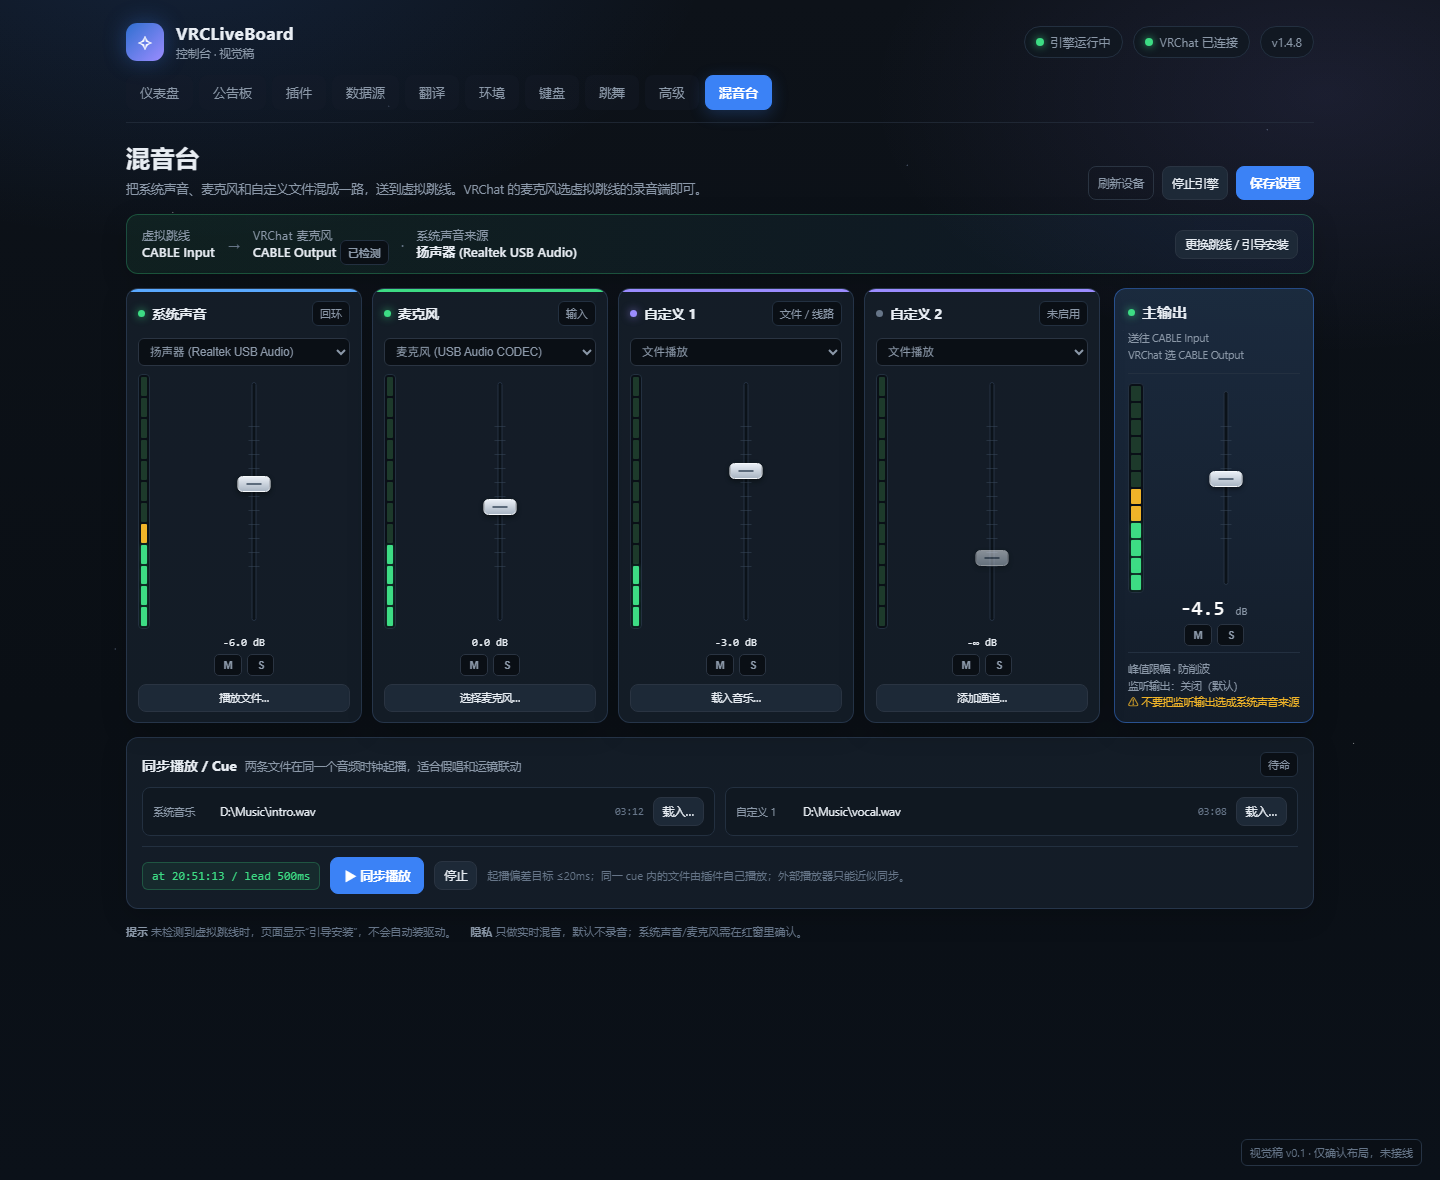
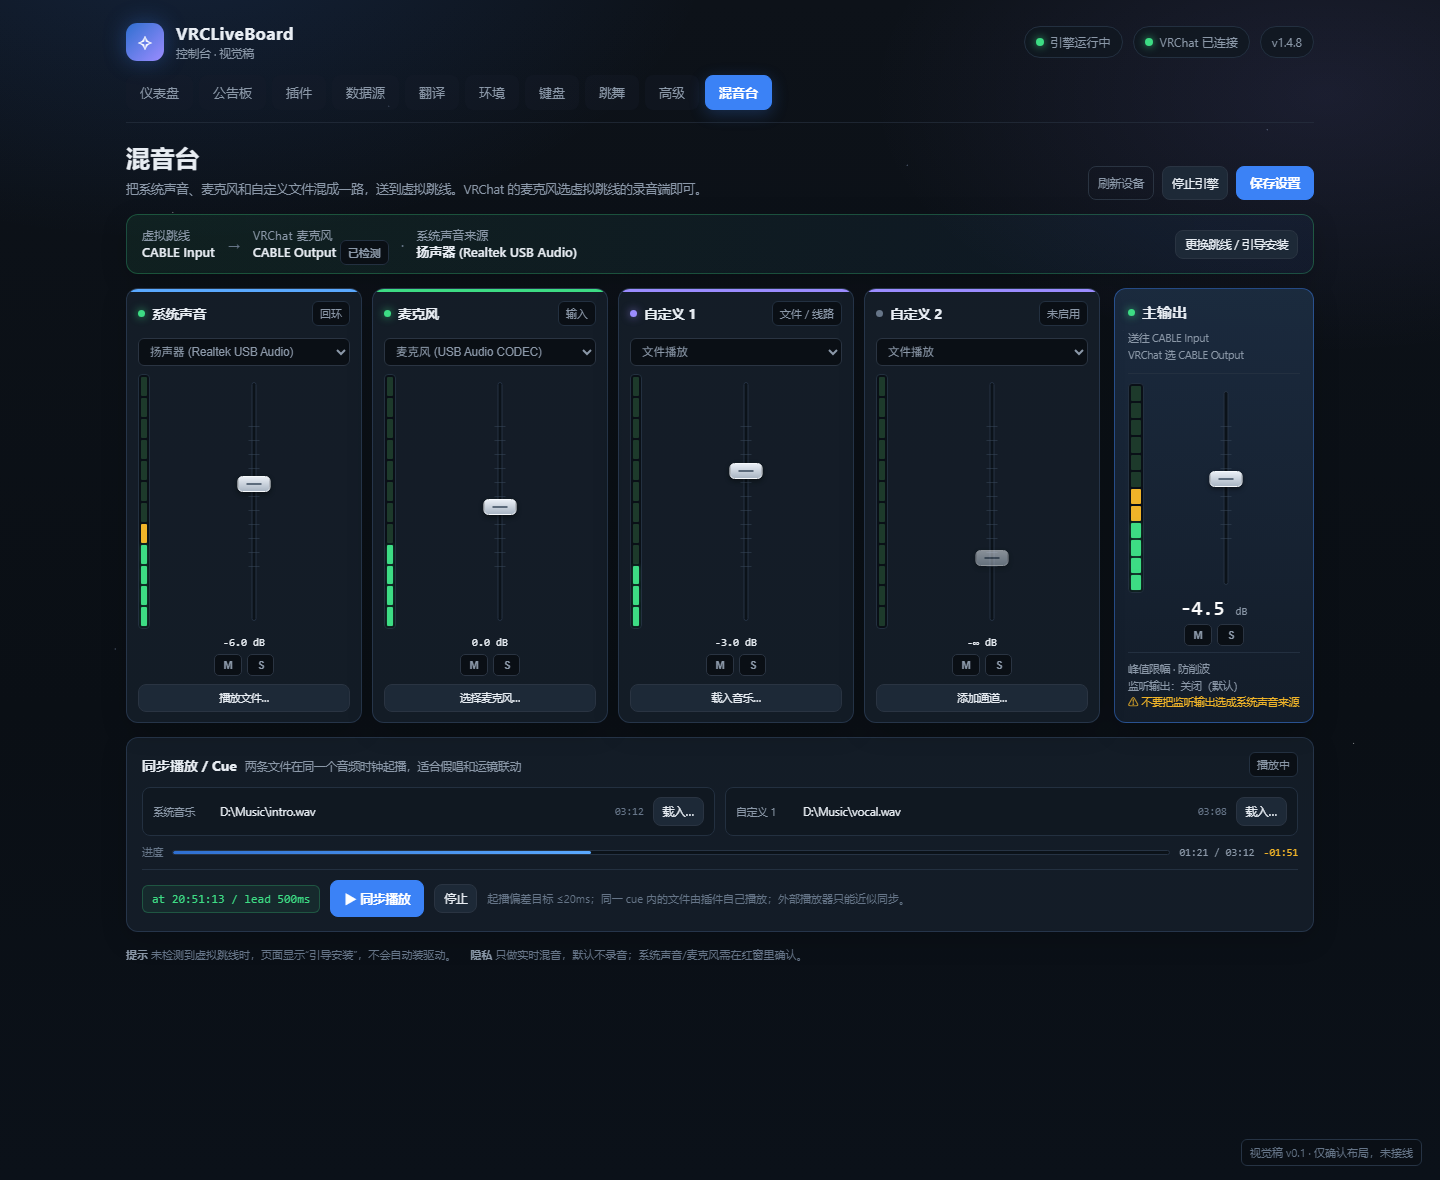
docs(feature): VU 刻度铺满/旋转中心移到表盘外, 主输出单表, Cue 加进度与倒计时
B-VU 表盘按近景参考重画: 指针支点在可见区域下方并被边框遮住; 主输出只保留一只 VU; A/B 两套均补 Cue 进度条、当前/总时长、倒计时; 数字 dB/峰值保留.

Changed region(s): [[0.0938, 0.7017, 0.625, 0.8237], [0.875, 0.6407, 0.9062, 0.6712]]

diff --git a/docs/FEATURES/assets/virtual-mixer-mockup-b-vu.html b/docs/FEATURES/assets/virtual-mixer-mockup-b-vu.html
@@ -45,11 +45,12 @@ body:before{content:'';position:fixed;inset:0;pointer-events:none;opacity:.5;bac
 .filebtn{border:1px solid var(--border2);background:var(--inset);color:var(--muted);border-radius:6px;padding:6px 8px;font-size:10.5px;text-align:left;white-space:nowrap;overflow:hidden;text-overflow:ellipsis}
 .master{padding:14px 14px 12px;border-color:rgba(240,180,41,.34);background:linear-gradient(180deg,rgba(35,40,48,.95),rgba(20,28,38,.95))}
 .master .strip-head b{font-size:15px}.master .out{font-size:10.5px;color:var(--muted);line-height:1.6;margin:3px 0 10px;border-bottom:1px solid var(--border2);padding-bottom:9px}
-.dualmeter{display:flex;gap:8px;justify-content:center;margin:6px 0 10px}.dualmeter .analog{width:126px}.dualmeter .vu{width:126px;height:92px}
+.masteranalog{width:190px;margin:8px auto 0}.masteranalog .vu{width:190px;height:112px}.masterlabel{text-align:center;font-size:9.5px;letter-spacing:2px;color:var(--faint);margin:5px 0 7px}
 .master .bigdb{font-family:Consolas,monospace;font-size:22px;color:#fff;text-align:center;margin:7px 0 5px}.master .bigdb span{font-size:11px;color:var(--muted)}
 .master .faderline{margin:0 2px 7px}.master .safe{margin-top:auto;font-size:10.5px;color:var(--muted);border-top:1px solid var(--border2);padding-top:9px;line-height:1.6;margin-top:12px}
 .cue{margin-top:14px;padding:14px 15px}.cue-head{display:flex;align-items:center;justify-content:space-between;gap:12px;margin-bottom:10px}.cue-head b{font-size:14px}.cue-head .sub{font-size:11.5px;color:var(--muted);margin-left:8px}
 .cuerows{display:grid;grid-template-columns:1fr 1fr;gap:10px}.cuerow{display:flex;align-items:center;gap:9px;background:var(--inset);border:1px solid var(--border2);border-radius:8px;padding:9px 10px}.cuerow .tag{font-size:10.5px;color:var(--muted);min-width:58px}.cuerow .fname{flex:1;min-width:0;font-size:11.5px;white-space:nowrap;overflow:hidden;text-overflow:ellipsis}.cuerow .dur{font-family:Consolas,monospace;font-size:10.5px;color:var(--faint)}
+.cueprogress{display:flex;align-items:center;gap:9px;margin-top:9px;font-size:10.5px;color:var(--faint)}.cueprogress .pbar{flex:1;height:5px;border-radius:3px;background:#0b1219;border:1px solid #263344;overflow:hidden}.cueprogress .pfill{display:block;height:100%;width:42%;background:linear-gradient(90deg,#2f6fd0,#5aa9ff);border-radius:3px}.cueprogress .pnum{font-family:Consolas,monospace;color:var(--muted)}.cueprogress .cd{font-family:Consolas,monospace;color:var(--warn)}
 .cuefoot{display:flex;align-items:center;gap:10px;flex-wrap:wrap;margin-top:10px;padding-top:10px;border-top:1px solid var(--border2)}.cuefoot .time{font-family:Consolas,monospace;font-size:12px;color:var(--ok);background:rgba(61,220,132,.08);border:1px solid rgba(61,220,132,.25);border-radius:6px;padding:6px 9px}.cuefoot .hint{font-size:11px;color:var(--faint)}
 .foot{display:flex;gap:14px;flex-wrap:wrap;margin-top:14px;color:var(--faint);font-size:11px;line-height:1.6}.foot b{color:var(--muted);font-weight:600}
 .watermark{position:fixed;right:18px;bottom:14px;color:#657487;font-size:11px;border:1px solid #263344;background:rgba(10,15,21,.8);padding:5px 8px;border-radius:6px}
@@ -80,9 +81,9 @@ body:before{content:'';position:fixed;inset:0;pointer-events:none;opacity:.5;bac
     <div class="stripbody"><div class="analog"><div class="vu" data-vu="custom2" data-level="-30"></div><div class="vu-foot"><b>VU</b><span class="peak" style="opacity:.45">PEAK</span></div></div><div class="controls"><select><option>文件播放</option><option>线路输入</option></select><div class="faderline"><span class="trackline"><i class="fill" style="width:12%"></i><i class="knob" style="left:12%"></i></span><span class="db">-∞ dB</span></div><div class="msrow"><button>M</button><button>S</button><span class="db2">L / R</span></div><div class="filebtn">添加通道…</div></div></div>
   </div>
 </div>
-<aside class="card master"><div class="strip-head"><i class="dot"></i><b>主输出</b></div><div class="out">送往 CABLE Input<br>VRChat 选 CABLE Output</div><div class="dualmeter"><div class="analog"><div class="vu" data-vu="masterL" data-level="-6"></div></div><div class="analog"><div class="vu" data-vu="masterR" data-level="-8"></div></div></div><div style="display:flex;justify-content:center;gap:42px;font-size:10px;color:var(--faint);margin-top:-8px;margin-bottom:4px"><span>L</span><span>R</span></div><div class="bigdb">-4.5 <span>dB</span></div><div class="faderline"><span class="trackline"><i class="fill" style="width:70%"></i><i class="knob" style="left:70%"></i></span></div><div class="msrow" style="justify-content:center"><button>M</button><span style="font-size:10px;color:var(--faint)">主输出静音</span></div><div class="safe">峰值限幅 · 防削波<br>监听输出：关闭（默认）<br><span style="color:var(--warn)">⚠ 不要把监听输出选成系统声音来源</span></div></aside>
+<aside class="card master"><div class="strip-head"><i class="dot"></i><b>主输出</b></div><div class="out">送往 CABLE Input<br>VRChat 选 CABLE Output</div><div class="masteranalog"><div class="vu" data-vu="master" data-level="-6"></div><div class="masterlabel">MASTER</div></div><div class="bigdb">-4.5 <span>dB</span></div><div class="faderline"><span class="trackline"><i class="fill" style="width:70%"></i><i class="knob" style="left:70%"></i></span></div><div class="msrow" style="justify-content:center"><button>M</button><span style="font-size:10px;color:var(--faint)">主输出静音</span></div><div class="safe">峰值限幅 · 防削波<br>监听输出：关闭（默认）<br><span style="color:var(--warn)">⚠ 不要把监听输出选成系统声音来源</span></div></aside>
 </div>
-<div class="card cue"><div class="cue-head"><div><b>同步播放 / Cue</b><span class="sub">两条文件在同一个音频时钟起播，适合假唱和运镜联动</span></div><span class="badge">待命</span></div><div class="cuerows"><div class="cuerow"><span class="tag">系统音乐</span><span class="fname">D:\Music\intro.wav</span><span class="dur">03:12</span><button class="btn small">载入…</button></div><div class="cuerow"><span class="tag">自定义 1</span><span class="fname">D:\Music\vocal.wav</span><span class="dur">03:08</span><button class="btn small">载入…</button></div></div><div class="cuefoot"><span class="time">at 21:03:00 / lead 500ms</span><button class="btn pri">▶ 同步播放</button><button class="btn small">停止</button><span class="hint">起播偏差目标 ≤20ms；同一 cue 内的文件由插件自己播放；外部播放器只能近似同步。</span></div></div>
+<div class="card cue"><div class="cue-head"><div><b>同步播放 / Cue</b><span class="sub">两条文件在同一个音频时钟起播，适合假唱和运镜联动</span></div><span class="badge">播放中</span></div><div class="cuerows"><div class="cuerow"><span class="tag">系统音乐</span><span class="fname">D:\Music\intro.wav</span><span class="dur">03:12</span><button class="btn small">载入…</button></div><div class="cuerow"><span class="tag">自定义 1</span><span class="fname">D:\Music\vocal.wav</span><span class="dur">03:08</span><button class="btn small">载入…</button></div></div><div class="cueprogress"><span>进度</span><div class="pbar"><i class="pfill"></i></div><span class="pnum">01:21 / 03:12</span><span class="cd">-01:51</span></div><div class="cuefoot"><span class="time">at 21:03:00 / lead 500ms</span><button class="btn pri">▶ 同步播放</button><button class="btn small">停止</button><span class="hint">起播偏差目标 ≤20ms；同一 cue 内的文件由插件自己播放；外部播放器只能近似同步。</span></div></div>
 <div class="foot"><span><b>提示</b> 机械 VU 是风格化反馈，数字 dB 仍保留；未检测到虚拟跳线时显示“引导安装”。</span><span><b>隐私</b> 只做实时混音，默认不录音；系统声音/麦克风需在红窗里确认。</span></div>
 </div>
 <div class="watermark">视觉稿 B-VU · 仅确认布局，未接线</div>
@@ -100,49 +101,50 @@ body:before{content:'';position:fixed;inset:0;pointer-events:none;opacity:.5;bac
   function ticks(){
     var out='';
     var major=[-20,-10,-7,-5,-3,-1,0,3];
-    var majorAng=[-52,-36,-25,-17,-9,-2,4,16];
-    for(var i=0;i<=34;i++){
-      var a=-52+i*(68/34);
-      var r1=58, r2=(i%2===0?67:63);
-      var p1=polar(92,88,r1,a), p2=polar(92,88,r2,a);
-      out+='<line x1="'+p1[0].toFixed(1)+'" y1="'+p1[1].toFixed(1)+'" x2="'+p2[0].toFixed(1)+'" y2="'+p2[1].toFixed(1)+'" stroke="#3d2b1c" stroke-width="'+(i%2===0?1.3:0.8)+'" opacity="'+(i%2===0?'.9':'.55')+'"/>';
+    var majorAng=[-58,-40,-30,-22,-14,-6,2,22];
+    for(var i=0;i<=31;i++){
+      var a=-58+i*(80/31);
+      var isMajor=false;
+      for(var m=0;m<majorAng.length;m++){ if(Math.abs(a-majorAng[m])<1.3) isMajor=true; }
+      var r1=76, r2=(isMajor?91:83);
+      var p1=polar(92,120,r1,a), p2=polar(92,120,r2,a);
+      out+='<line x1="'+p1[0].toFixed(1)+'" y1="'+p1[1].toFixed(1)+'" x2="'+p2[0].toFixed(1)+'" y2="'+p2[1].toFixed(1)+'" stroke="#3a2718" stroke-width="'+(isMajor?1.45:0.8)+'" opacity="'+(isMajor?'.9':'.45')+'"/>';
     }
     for(var j=0;j<major.length;j++){
-      var a2=majorAng[j];
-      var p=polar(92,88,75,a2);
-      out+='<text x="'+p[0].toFixed(1)+'" y="'+(p[1]+2.5).toFixed(1)+'" text-anchor="middle" font-size="8" fill="#3a2718" font-family="Consolas,monospace">'+(major[j]>0?'+':'')+major[j]+'</text>';
+      var p=polar(92,120,101,majorAng[j]);
+      var label=(major[j]>0?'+':'')+major[j];
+      out+='<text x="'+p[0].toFixed(1)+'" y="'+(p[1]+2.5).toFixed(1)+'" text-anchor="middle" font-size="8" fill="#3a2718" font-family="Consolas,monospace">'+label+'</text>';
     }
     return out;
   }
   function svgMeter(level){
     var v=Math.max(-20,Math.min(3,Number(level)||0));
-    var t=(v+20)/23; var ang=-52+t*68;
+    var t=(v+20)/23; var ang=-58+t*80;
     var tickHtml=ticks();
-    var red=arcPath(92,88,64,4,16);
+    var red=arcPath(92,120,84,2,22);
     return '<svg viewBox="0 0 184 108" preserveAspectRatio="xMidYMid meet">'+
       '<defs>'+
-      '<linearGradient id="paper" x1="0" y1="0" x2="0" y2="1"><stop offset="0" stop-color="#f7e8c8"/><stop offset=".62" stop-color="#efd8ad"/><stop offset="1" stop-color="#d8b57d"/></linearGradient>'+
-      '<radialGradient id="bulb" cx="50%" cy="100%" r="70%"><stop offset="0" stop-color="#ffd38c" stop-opacity=".85"/><stop offset=".45" stop-color="#ffae52" stop-opacity=".25"/><stop offset="1" stop-color="#000" stop-opacity="0"/></radialGradient>'+
-      '<linearGradient id="bezel" x1="0" y1="0" x2="0" y2="1"><stop offset="0" stop-color="#30261c"/><stop offset=".5" stop-color="#17120e"/><stop offset="1" stop-color="#0b0907"/></linearGradient>'+
+      '<linearGradient id="paper" x1="0" y1="0" x2="0" y2="1"><stop offset="0" stop-color="#f8e9ca"/><stop offset=".62" stop-color="#efd7aa"/><stop offset="1" stop-color="#d5b076"/></linearGradient>'+
+      '<radialGradient id="bulb" cx="50%" cy="102%" r="70%"><stop offset="0" stop-color="#ffd38c" stop-opacity=".9"/><stop offset=".5" stop-color="#ffae52" stop-opacity=".25"/><stop offset="1" stop-color="#000" stop-opacity="0"/></radialGradient>'+
+      '<linearGradient id="bezel" x1="0" y1="0" x2="0" y2="1"><stop offset="0" stop-color="#33281c"/><stop offset=".5" stop-color="#16110c"/><stop offset="1" stop-color="#090705"/></linearGradient>'+
       '<clipPath id="faceclip"><rect x="10" y="8" width="164" height="92" rx="2"/></clipPath>'+
       '</defs>'+
-      '<rect x="1" y="1" width="182" height="106" rx="7" fill="url(#bezel)" stroke="#4f3e2d" stroke-opacity=".55"/>'+
+      '<rect x="1" y="1" width="182" height="106" rx="7" fill="url(#bezel)" stroke="#4f3e2d" stroke-opacity=".6"/>'+
       '<rect x="8" y="6" width="168" height="96" rx="3" fill="#0c0907" opacity=".55"/>'+
       '<g clip-path="url(#faceclip)">'+
       '<rect x="10" y="8" width="164" height="92" fill="url(#paper)"/>'+
       '<rect x="10" y="8" width="164" height="92" fill="url(#bulb)"/>'+
-      '<path d="'+arcPath(92,88,64,-52,16)+'" fill="none" stroke="#3e2a1a" stroke-width="1.2" opacity=".9"/>'+
-      '<path d="'+red+'" fill="none" stroke="#b03a2a" stroke-width="4" opacity=".85"/>'+
+      '<path d="'+arcPath(92,120,84,-58,22)+'" fill="none" stroke="#3e2a1a" stroke-width="1.2" opacity=".9"/>'+
+      '<path d="'+red+'" fill="none" stroke="#b03a2a" stroke-width="4.6" opacity=".9"/>'+
       tickHtml+
-      '<text x="92" y="66" text-anchor="middle" font-size="17" font-weight="600" fill="#2f2115" font-family="Segoe UI">VU</text>'+
+      '<text x="92" y="78" text-anchor="middle" font-size="17" font-weight="600" fill="#2f2115" font-family="Segoe UI">VU</text>'+
       '<text x="16" y="98" font-size="6.5" fill="#6b4c30" font-family="Consolas,monospace">ANALOG</text>'+
-      '<circle cx="157" cy="20" r="3.2" fill="#c23b2c"/><circle cx="157" cy="20" r="1.2" fill="#ffb4a8"/>'+
-      '<text x="157" y="32" text-anchor="middle" font-size="6.5" fill="#5b3c27" font-family="Segoe UI">PEAK</text>'+
+      '<circle cx="158" cy="19" r="3.2" fill="#c23b2c"/><circle cx="158" cy="19" r="1.2" fill="#ffb4a8"/>'+
+      '<text x="158" y="31" text-anchor="middle" font-size="6.5" fill="#5b3c27" font-family="Segoe UI">PEAK</text>'+
       '<polygon points="12,9 58,9 46,20 12,20" fill="#fff" opacity=".10"/>'+
+      '<line x1="92" y1="120" x2="92" y2="20" stroke="#24170f" stroke-width="2.4" stroke-linecap="round" transform="rotate('+ang.toFixed(1)+' 92 120)"/>'+
+      '<line x1="92" y1="120" x2="92" y2="25" stroke="#f6e6c8" stroke-width=".6" opacity=".32" transform="rotate('+ang.toFixed(1)+' 92 120)"/>'+
       '</g>'+
-      '<line x1="92" y1="88" x2="92" y2="26" stroke="#24170f" stroke-width="2.2" stroke-linecap="round" transform="rotate('+ang.toFixed(1)+' 92 88)"/>'+
-      '<line x1="92" y1="88" x2="92" y2="32" stroke="#f6e6c8" stroke-width=".7" opacity=".35" transform="rotate('+ang.toFixed(1)+' 92 88)"/>'+
-      '<circle cx="92" cy="88" r="4.6" fill="#1d130d"/><circle cx="92" cy="88" r="1.8" fill="#c8a36b"/>'+
       '</svg>';
   }
   var nodes = document.querySelectorAll('.vu');

diff --git a/docs/FEATURES/assets/virtual-mixer-mockup.html b/docs/FEATURES/assets/virtual-mixer-mockup.html
@@ -80,6 +80,7 @@ body:before{content:'';position:fixed;inset:0;pointer-events:none;opacity:.5;bac
 .cuerow .tag{font-size:10.5px;color:var(--muted);min-width:58px}
 .cuerow .fname{flex:1;min-width:0;font-size:11.5px;color:var(--text);white-space:nowrap;overflow:hidden;text-overflow:ellipsis}
 .cuerow .dur{font-family:var(--mono);font-size:10.5px;color:var(--faint)}
+.cueprogress{display:flex;align-items:center;gap:9px;margin-top:9px;font-size:10.5px;color:var(--faint)}.cueprogress .pbar{flex:1;height:5px;border-radius:3px;background:#0b1219;border:1px solid #263344;overflow:hidden}.cueprogress .pfill{display:block;height:100%;width:42%;background:linear-gradient(90deg,#2f6fd0,#5aa9ff);border-radius:3px}.cueprogress .pnum{font-family:Consolas,monospace;color:var(--muted)}.cueprogress .cd{font-family:Consolas,monospace;color:var(--warn)}
 .cuefoot{display:flex;align-items:center;gap:10px;flex-wrap:wrap;margin-top:10px;padding-top:10px;border-top:1px solid var(--border2)}
 .cuefoot .time{font-family:var(--mono);font-size:12px;color:var(--ok);background:rgba(61,220,132,.08);border:1px solid rgba(61,220,132,.25);border-radius:6px;padding:6px 9px}
 .cuefoot .hint{font-size:11px;color:var(--faint)}
@@ -176,11 +177,12 @@ body:before{content:'';position:fixed;inset:0;pointer-events:none;opacity:.5;bac
   </div>
 
   <div class="card cue">
-    <div class="cue-head"><div><b>同步播放 / Cue</b><span class="sub">两条文件在同一个音频时钟起播，适合假唱和运镜联动</span></div><span class="badge">待命</span></div>
+    <div class="cue-head"><div><b>同步播放 / Cue</b><span class="sub">两条文件在同一个音频时钟起播，适合假唱和运镜联动</span></div><span class="badge">播放中</span></div>
     <div class="cuerows">
       <div class="cuerow"><span class="tag">系统音乐</span><span class="fname">D:\Music\intro.wav</span><span class="dur">03:12</span><button class="btn small">载入…</button></div>
       <div class="cuerow"><span class="tag">自定义 1</span><span class="fname">D:\Music\vocal.wav</span><span class="dur">03:08</span><button class="btn small">载入…</button></div>
     </div>
+    <div class="cueprogress"><span>进度</span><div class="pbar"><i class="pfill"></i></div><span class="pnum">01:21 / 03:12</span><span class="cd">-01:51</span></div>
     <div class="cuefoot"><span class="time">at 20:51:13 / lead 500ms</span><button class="btn pri">▶ 同步播放</button><button class="btn small">停止</button><span class="hint">起播偏差目标 ≤20ms；同一 cue 内的文件由插件自己播放；外部播放器只能近似同步。</span></div>
   </div>
   <div class="foot"><span><b>提示</b> 未检测到虚拟跳线时，页面显示“引导安装”，不会自动装驱动。</span><span><b>隐私</b> 只做实时混音，默认不录音；系统声音/麦克风需在红窗里确认。</span></div>

diff --git a/docs/FEATURES/F-20261123-01-虚拟混音台.md b/docs/FEATURES/F-20261123-01-虚拟混音台.md
@@ -1,11 +1,11 @@
 # F-20261123-01 简易虚拟混音台总线
 
-> 状态: **方案已确认（D1 引导安装 / 单跳线 / B1 通道 / C1 同步 / E1 引擎 / F1 自动化；D4 双布局 A+B-VU 都做）**。视觉精修中，未开发。
+> 状态: **方案与视觉细节已确认（D1 引导安装 / 单跳线 / B1 通道 / C1 同步 / D4 双布局 A+B-VU / E1 引擎 / F1 自动化；B-VU 默认）**。未开发。
 > 流程: `docs/PROCESS-02-开发更新.md` D0/D1；本卡先回答七问和四张契约，确认后再进 D2。
 
 ## 0. 状态与归属
 
-- 状态: DRAFT（方案已确认，视觉精修/实现准备）
+- 状态: DRAFT（方案与视觉已确认，待进入实现）
 - 归属: **插件**（`plugins/virtual-mixer`）+ **主程序控制台新增混音台页面**（仅 UI/接口桥，不放核心音频算法）
 - 目标版本: 插件 `0.1.0`；主程序 UI 改动按 PROCESS-02 走 milestone（不混进补丁位）
 - 关联: 待实现后写 DEV-NOTES 条目。
@@ -256,9 +256,10 @@ VRChat 主播/整活用户：希望把「系统正在播放的声音」「自己
 
 ![混音台视觉稿 B-VU](assets/virtual-mixer-mockup-b-vu.png)
 
-- 四条通道卡片各放一只**模拟 VU 表**，主输出放 **L/R 双 VU**；保留数字 dB 读数、峰值 LED 和横向推子。
-- **精修方向（按你给的近景参考）**：奶油色表纸、黑色刻度/数字、`+` 区红色刻度、红色 PEAK 灯、底部灯泡暖光、深色金属边框、细黑指针；只借风格，不使用 TASCAM/TEAC 商标或型号字样。
+- 四条通道卡片各放一只**模拟 VU 表**，主输出只放 **一只 VU**（用户确认不需要 L/R 双表）；保留数字 dB 读数、峰值 LED 和横向推子。
+- **精修方向（按你给的近景参考）**：奶油色表纸、黑色刻度/数字、`+` 区红色刻度、红色 PEAK 灯、底部灯泡暖光、深色金属边框、细黑指针；刻度铺满表盘，**指针旋转中心位于可见表盘下方（被下边框遮住）**，指针从下边缘穿入表盘；只借风格，不使用 TASCAM/TEAC 商标或型号字样。
 - 指针长度、支点、刻度密度、PEAK 灯位置按近景图重画；近看像机械表，缩到卡片尺寸仍能读。
+- Cue 区已加 **进度条、当前/总时长、倒计时**；数字 dB/峰值 LED 保留作精确读数。
 - 机械表只做**风格化平均值**反馈；精确音量仍看数字 dB，表针不承担精确计量。
 - 实现方式：SVG/CSS 指针 + 30fps 动画；VU 弹道采用约 300ms 积分/回落，指针不抖动；4–8 只表的 CPU 开销可忽略，不需要改音频引擎。
 - 可选：右下角“机械表 / 数字表”切换，或只把 VU 作为主题皮肤；避免小屏看不清时无法读数。
@@ -284,14 +285,15 @@ VRChat 主播/整活用户：希望把「系统正在播放的声音」「自己
 - 明确显示虚拟跳线两端，缺失时显示“更换跳线 / 引导安装”。
 - 每个通道有 M/S；主输出有峰值限幅提示；监听默认关闭并提示防回授。
 
-### 仍需确认的视觉细节
+### 视觉细节确认结果
 
-1. **默认布局**：B-VU 机械表（推荐，符合你的桌面）还是 A 通道条？两者都会做，切换按钮在页面右上角。
-2. 默认显示 3 条（系统 / 麦克风 / 自定义 1）还是 4 条（含一条未启用占位）？
-3. 主输出的 L/R 双 VU 是否要更大（当前卡片里较小）？
-4. 是否保留数字 dB/峰值 LED 作为精确读数（推荐保留；机械表只做风格反馈）。
-5. 推子旁是否要 `+6/0/-12/-24/-∞` 刻度和可编辑 dB 数字框？
-6. Cue 区是否要倒计时/进度条？
+- [x] 刻度铺满表盘，指针旋转中心在表盘下边缘之外（被边框遮住）。
+- [x] 主输出只用一只 VU，不做 L/R 双表。
+- [x] 保留数字 dB 读数与峰值 LED。
+- [x] Cue 区增加倒计时与进度条。
+- [x] A 通道条 + B-VU 机械表两套布局都做，页面右上角切换。
+
+**默认值建议（未反对即按此实现）**：默认布局 B-VU；默认显示 3 条通道（第 4 条作为“添加通道”）；主输出一只 VU。
 ## 8. 确认方式
 
 用户回复以下任一形式即可进入 D1 细化/实现：
